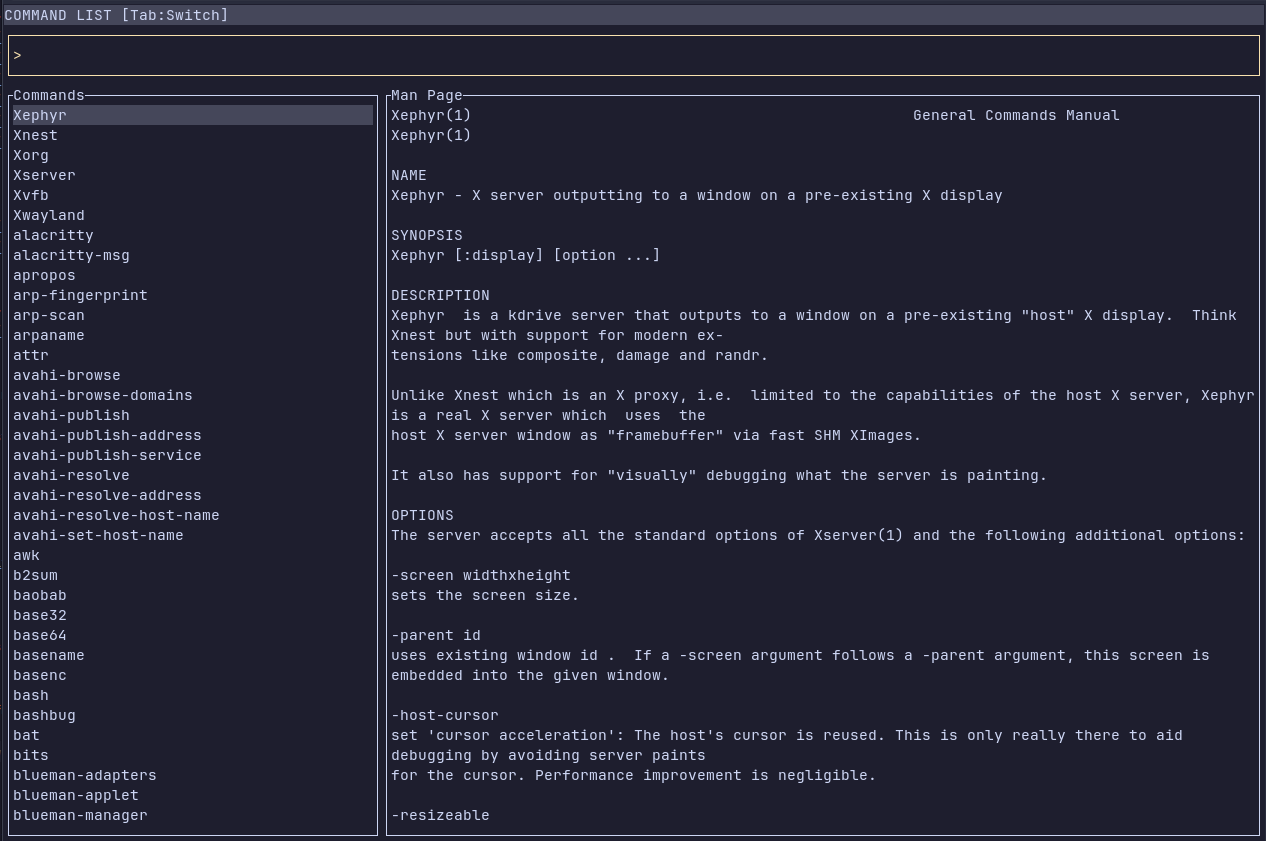
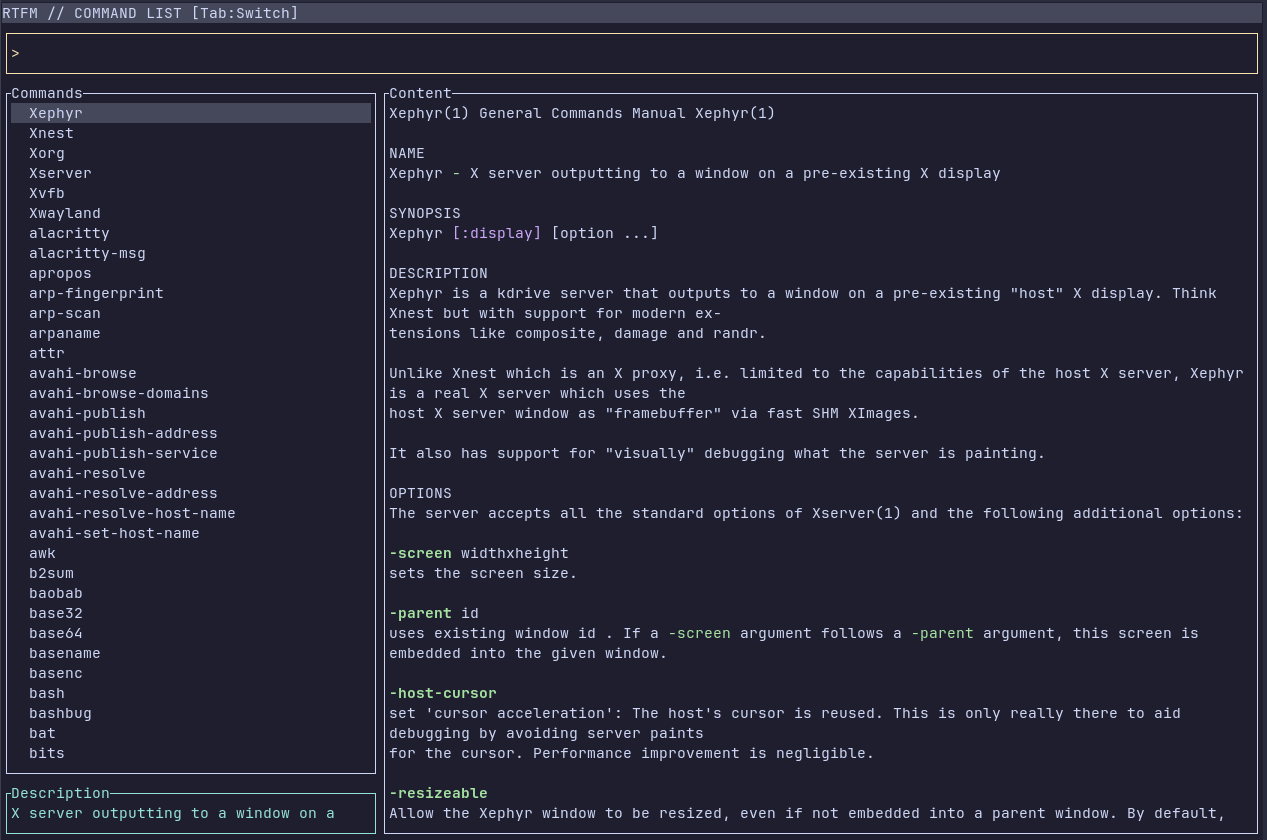
add tests and improve readme

Changed region(s): [[0.0, 0.0, 1.0, 1.0], [0.7085, 0.1238, 0.8934, 0.1548]]

diff --git a/src/trie.rs b/src/trie.rs
@@ -76,3 +76,57 @@ impl Trie {
         }
     }
 }
+
+#[cfg(test)]
+mod trie_tests {
+    use super::*;
+
+    #[test]
+    fn test_trie_insert_and_search() {
+        let mut trie = Trie::new();
+        trie.insert("rust");
+        trie.insert("ruby");
+        trie.insert("python");
+        trie.insert("pythonic");
+
+        let results = trie.words_starting_with("ru");
+        assert_eq!(results, vec!["ruby", "rust"]);
+
+        let results = trie.words_starting_with("rust");
+        assert_eq!(results, vec!["rust"]);
+
+        let results = trie.words_starting_with("java");
+        assert!(results.is_empty());
+    }
+
+    #[test]
+    fn test_trie_case_sensitivity() {
+        let mut trie = Trie::new();
+        trie.insert("Rust");
+        trie.insert("rust");
+        trie.insert("RUST");
+
+        let results = trie.words_starting_with("rus");
+        assert_eq!(results, vec!["rust"]);
+
+        let results = trie.words_starting_with("Rus");
+        assert_eq!(results, vec!["Rust"]);
+    }
+
+    #[test]
+    fn test_trie_special_characters() {
+        let mut trie = Trie::new();
+        trie.insert("docker-compose");
+        trie.insert("git@github.com");
+        trie.insert("100daysofcode");
+
+        let results = trie.words_starting_with("docker");
+        assert_eq!(results, vec!["docker-compose"]);
+
+        let results = trie.words_starting_with("git@");
+        assert_eq!(results, vec!["git@github.com"]);
+
+        let results = trie.words_starting_with("100");
+        assert_eq!(results, vec!["100daysofcode"]);
+    }
+}

diff --git a/src/man_db.rs b/src/man_db.rs
@@ -190,3 +190,34 @@ impl ManDb {
         Ok(content.lines().map(|s| s.to_string()).collect())
     }
 }
+
+#[cfg(test)]
+mod man_db_tests {
+    use super::*;
+    use std::collections::HashMap;
+    use tokio::runtime::Runtime;
+
+    const MOCK_MAN_OUTPUT: &str = "
+    ls (1)               - list directory contents
+    git (1)              - the stupid content tracker
+    printf (3)           - formatted output conversion
+    printf (1)           - format and print data
+    docker-compose (1)   - define and run multi-container applications
+    ";
+    #[test]
+    fn test_cache_behavior() {
+        let rt = Runtime::new().unwrap();
+        let man_db = ManDb::load(1).unwrap();
+
+        rt.block_on(async {
+            let content = man_db.get_man_page("ls").await;
+            assert!(!content.is_empty());
+
+            let cached_content = man_db.get_man_page("ls").await;
+            assert_eq!(content.len(), cached_content.len());
+
+            let cache = man_db.man_cache.lock().await;
+            assert!(cache.contains_key("ls"));
+        });
+    }
+}

diff --git a/src/main.rs b/src/main.rs
@@ -49,3 +49,28 @@ fn main() -> Result<()> {
 
     Ok(())
 }
+
+#[cfg(test)]
+mod cli_tests {
+    use super::*;
+    use std::process::Command;
+
+    #[test]
+    fn test_cli_commands() {
+        let output = Command::new("./target/debug/rtfm")
+            .arg("-V")
+            .output()
+            .expect("Failed to execute command");
+
+        assert!(String::from_utf8_lossy(&output.stdout).contains("rtfm 0.1.0"));
+
+        let output = Command::new("./target/debug/rtfm")
+            .arg("--help")
+            .output()
+            .expect("Failed to execute command");
+
+        let help_output = String::from_utf8_lossy(&output.stdout);
+        assert!(help_output.contains("Print help"));
+        assert!(help_output.contains("Print version"));
+    }
+}

diff --git a/README.md b/README.md
@@ -5,11 +5,11 @@
 <div align="center">
   <!-- <img src="https://raw.githubusercontent.com/alexeev-prog/rtfm/refs/heads/main/docs/logo.png" width="250" alt="RTFM Logo"> -->
 
-  <h3>RTFM - blazing fast util for searching manuals &amp; docs</h3>
+  <h3>Blazingly fast terminal utility for exploring man pages and tldr cheatsheets</h3>
 
   <div>
-    <a href="https://alexeev-prog.github.io/alexeev-prog/">
-        <img src="https://img.shields.io/badge/Check-site-blue?style=for-the-badge" alt="License">
+    <a href="https://alexeev-prog.github.io/rtfm/">
+        <img src="https://img.shields.io/badge/Docs-Online-blue?style=for-the-badge" alt="Docs">
     </a>
     <a href="https://github.com/alexeev-prog/rtfm/blob/main/LICENSE">
       <img src="https://img.shields.io/badge/License-GPL_v3-blue?style=for-the-badge&logo=gnu" alt="License">
@@ -42,7 +42,9 @@
 
  > Read the f*cking manual NOW!
 
-RTFM - blazingly fast util for searching manuals &amp; docs.
+RTFM - blazingly fast util for searching manuals &amp; docs. Blazingly fast terminal utility for exploring man pages and tldr cheatsheets.
+
+We are support [tldr](https://github.com/tldr-pages/tldr). You should install `man` and `tldr`.
 
 ![img.png](https://raw.githubusercontent.com/alexeev-prog/rtfm/refs/heads/main/img.png)
 
@@ -76,7 +78,135 @@ Options:
   -V, --version            Print version
 ```
 
+Вот улучшенный README.md с подробной технической спецификацией и профессиональным оформлением:
+
+## Features
+
+- **Dual-source documentation**: Access both man pages and tldr cheatsheets
+- **Instant search**: Trie-based command search with real-time filtering
+- **Syntax highlighting**: Intelligent highlighting for documentation content
+- **Search within pages**: Find text in documentation with match navigation
+- **Caching system**: LRU cache for fast document retrieval
+- **Responsive TUI**: Smooth terminal interface with keyboard navigation
+- **Debounced input**: Efficient handling of rapid user input
+
+## Technical Architecture
+
+### Core Components
+```mermaid
+graph TD
+    A[TUI Interface] --> B[AppState]
+    B --> C[ManDb]
+    C --> D[Trie Structure]
+    C --> E[Document Cache]
+```
+
+### Data Flow
+1. User inputs trigger command filtering
+2. Trie structure performs prefix search
+3. Selected command fetches document from cache or external source
+4. Content is parsed and displayed with syntax highlighting
+5. Search queries scan content and highlight matches
+
+## Building and Installation
+
+### Prerequisites
+- Rust 1.70+
+- Man-db
+- tldr (optional but recommended)
+
+### Installation
+```bash
+# Build from source
+cargo install --path .
+
+# Or via cargo
+cargo install rtfm
+```
+
+### Build Options
+```bash
+# Debug build
+cargo build
+
+# Release build (recommended)
+cargo build --release
+
+# Build with all optimizations
+RUSTFLAGS="-C target-cpu=native" cargo build --release
+```
+
+## Usage
+
+### TUI Mode (Default)
+```bash
+rtfm
+```
+
+### Key Bindings
+| Key               | Command List        | Man Page          | Search          |
+|-------------------|---------------------|-------------------|-----------------|
+| `Tab`             | Switch focus        | Switch focus      | N/A             |
+| `↑/↓`             | Navigate commands   | Scroll            | N/A             |
+| `Page Up/Down`    | Jump 50 commands    | Jump 30 lines     | N/A             |
+| `/`               | N/A                 | Enter search      | N/A             |
+| `n/N`             | N/A                 | Next/prev match   | N/A             |
+| `t`               | N/A                 | Toggle man/tldr   | N/A             |
+| `Enter`           | Load documentation  | N/A               | Apply search    |
+| `Esc`             | Clear input         | Focus command     | Cancel search   |
+
+### CLI Commands
+```bash
+# List commands starting with 'ls'
+rtfm getmans ls
+
+# View man page for ls
+rtfm getman ls
+
+# Use specific man section
+rtfm --section 3 getman printf
+```
+
+## Technical Specifications
+
+### Data Structures
+- **Trie**: Efficient prefix search for command names
+- **LRU Cache**: Caches parsed documentation (size: 100 entries)
+- **Arc<Mutex>**: Thread-safe caching with async support
+
+### Algorithms
+- **Debounced Input**: 150ms delay before triggering search
+- **Scroll Optimization**: Visible range tracking for large lists
+- **Syntax Highlighting**: Rule-based text segmentation
+- **Search Matching**: Case-insensitive substring matching
+
+### Dependencies
+| Crate        | Purpose                     |
+|--------------|-----------------------------|
+| `crossterm`  | Terminal control            |
+| `tui-rs`     | Terminal UI framework       |
+| `tokio`      | Async runtime               |
+| `regex`      | Man page parsing            |
+| `clap`       | Command-line parsing        |
+| `anyhow`     | Error handling              |
+
+## Contributing
+
+1. Fork the repository
+2. Create feature branch (`git checkout -b feature/improvement`)
+3. Commit changes (`git commit -am 'Add new feature'`)
+4. Push to branch (`git push origin feature/improvement`)
+5. Create new Pull Request
+
+### Development Guidelines
+- Follow Rust 2024 edition conventions
+- Maintain 85%+ test coverage
+- Use `clippy` and `rustfmt` for code quality
+- Document public APIs with examples
+
 ## License
+
+This project is licensed under the GNU General Public License v3.0 - see the [LICENSE](LICENSE) file for details.
 
 ```
 Blazingly fast util for searching manuals &amp; docs

diff --git a/CHANGELOG.md b/CHANGELOG.md
@@ -1,3 +1,9 @@
+commit f91f48db73105ba406f9914ee790c5534651c5f7
+Author: Alexeev Bronislav <alexeev.dev@mail.ru>
+Date:   Wed Jul 2 13:54:38 2025 +0700
+
+    feat/fix: add short desc & fix bug with manual lists
+
 commit 1e208069af54f89c3881d146800c14d7ff7aa72f
 Author: Alexeev Bronislav <alexeev.dev@mail.ru>
 Date:   Wed Jul 2 12:33:25 2025 +0700
